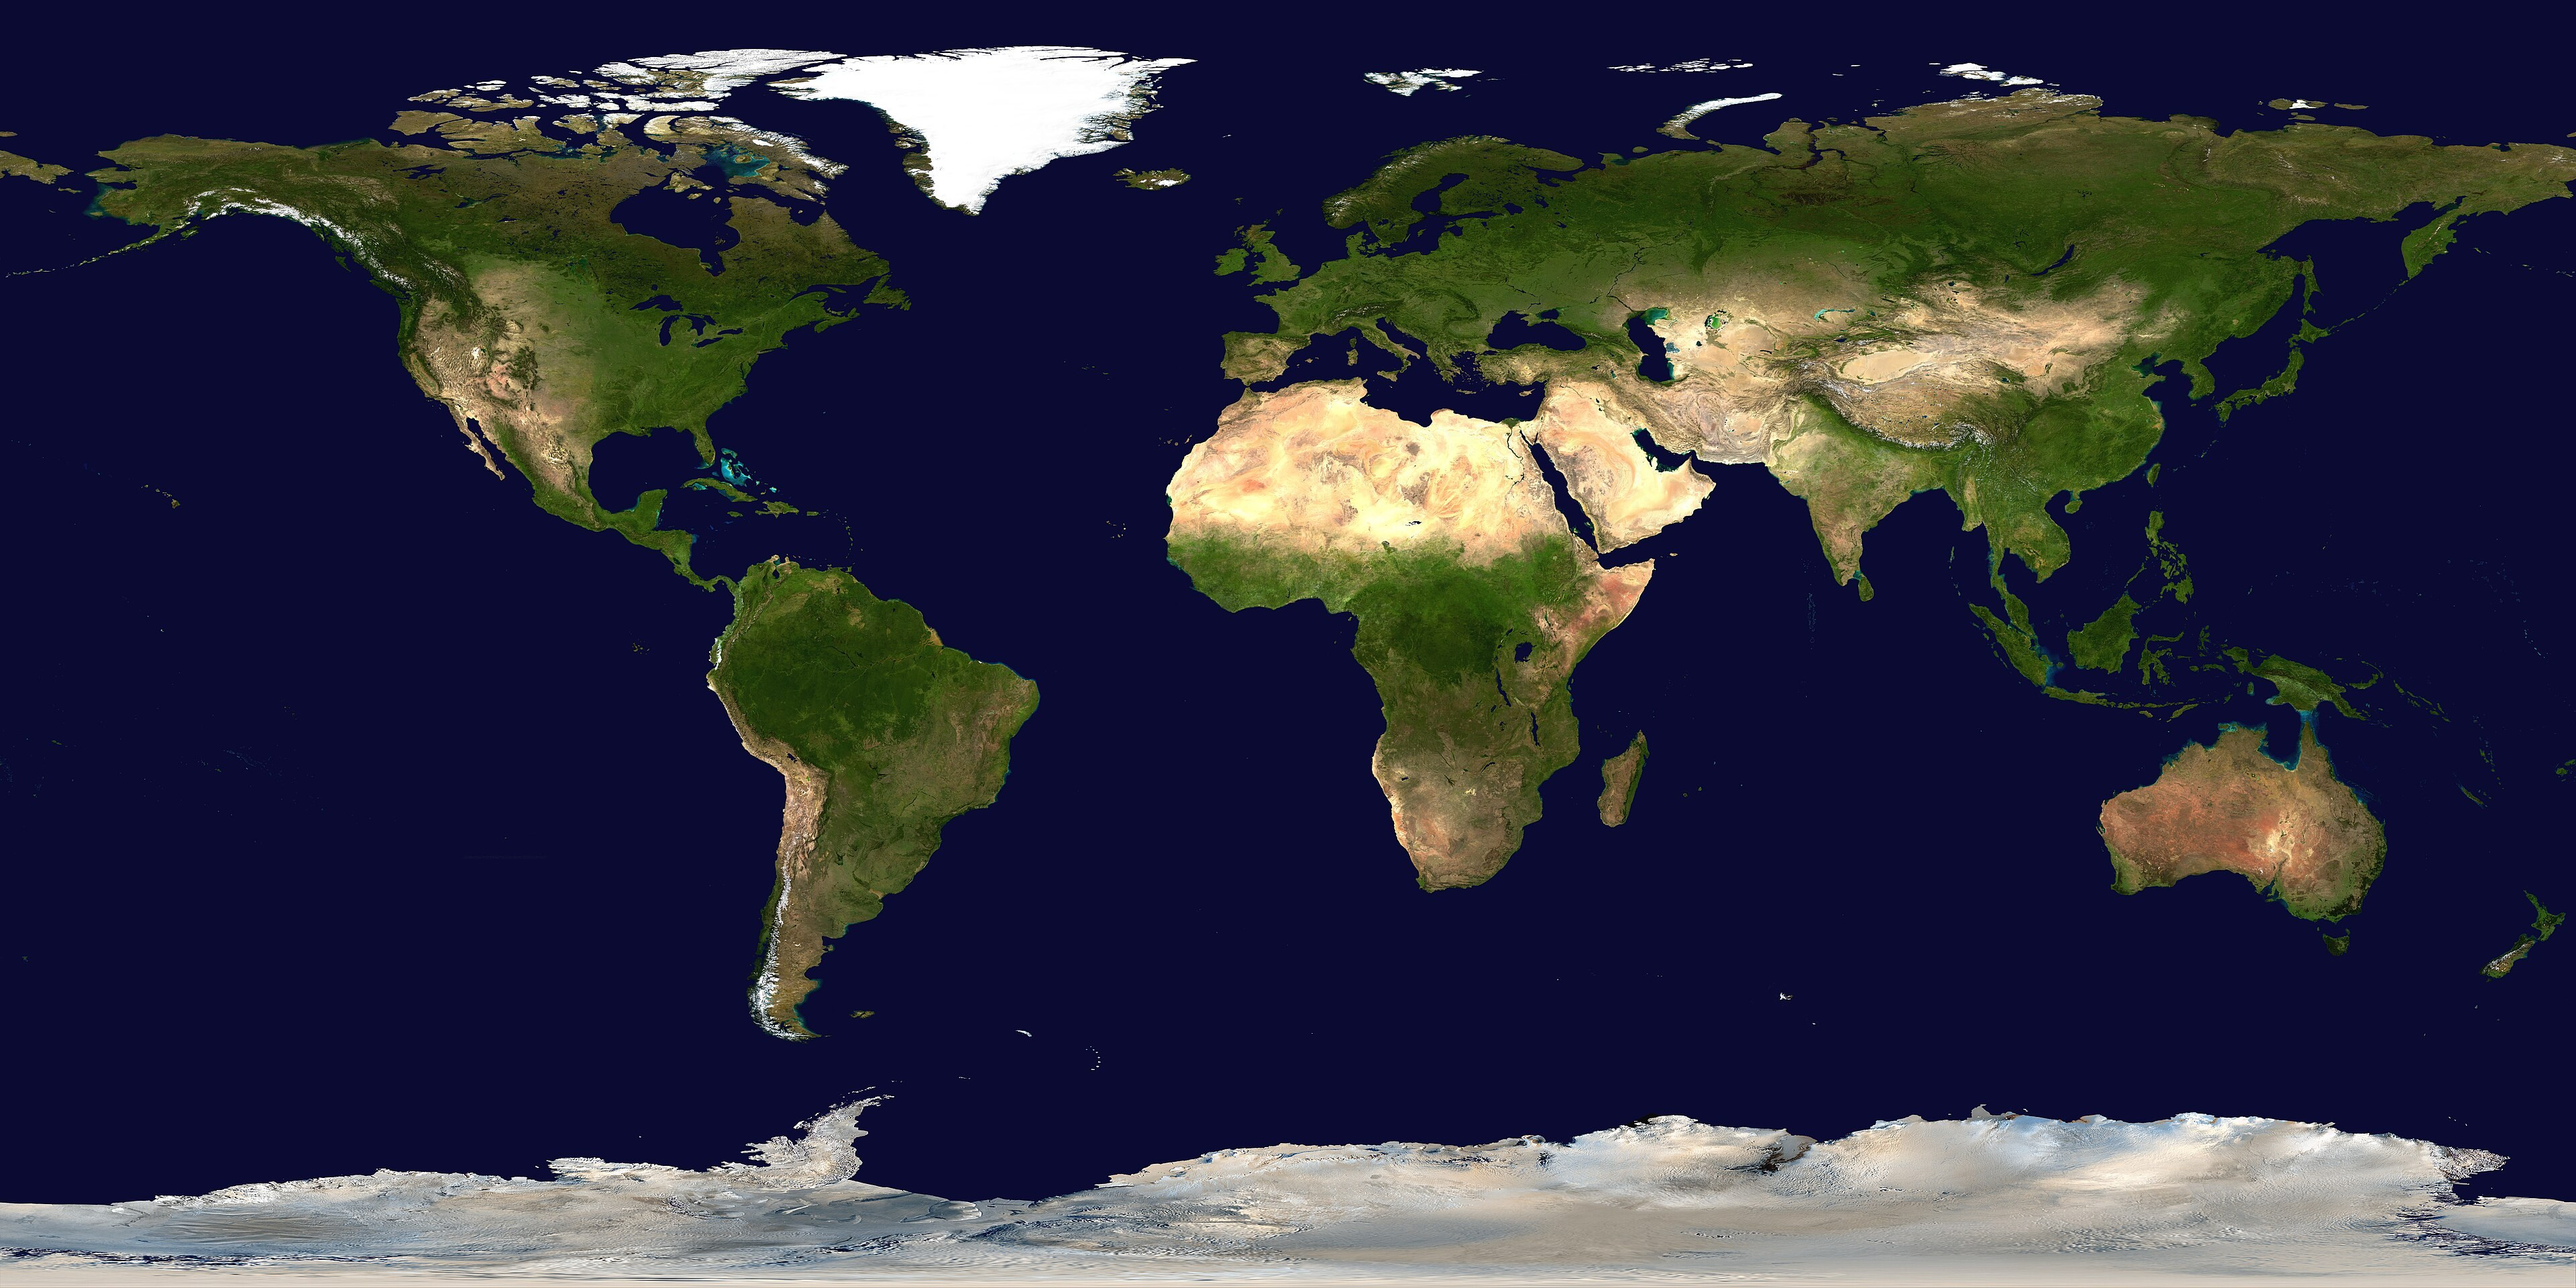
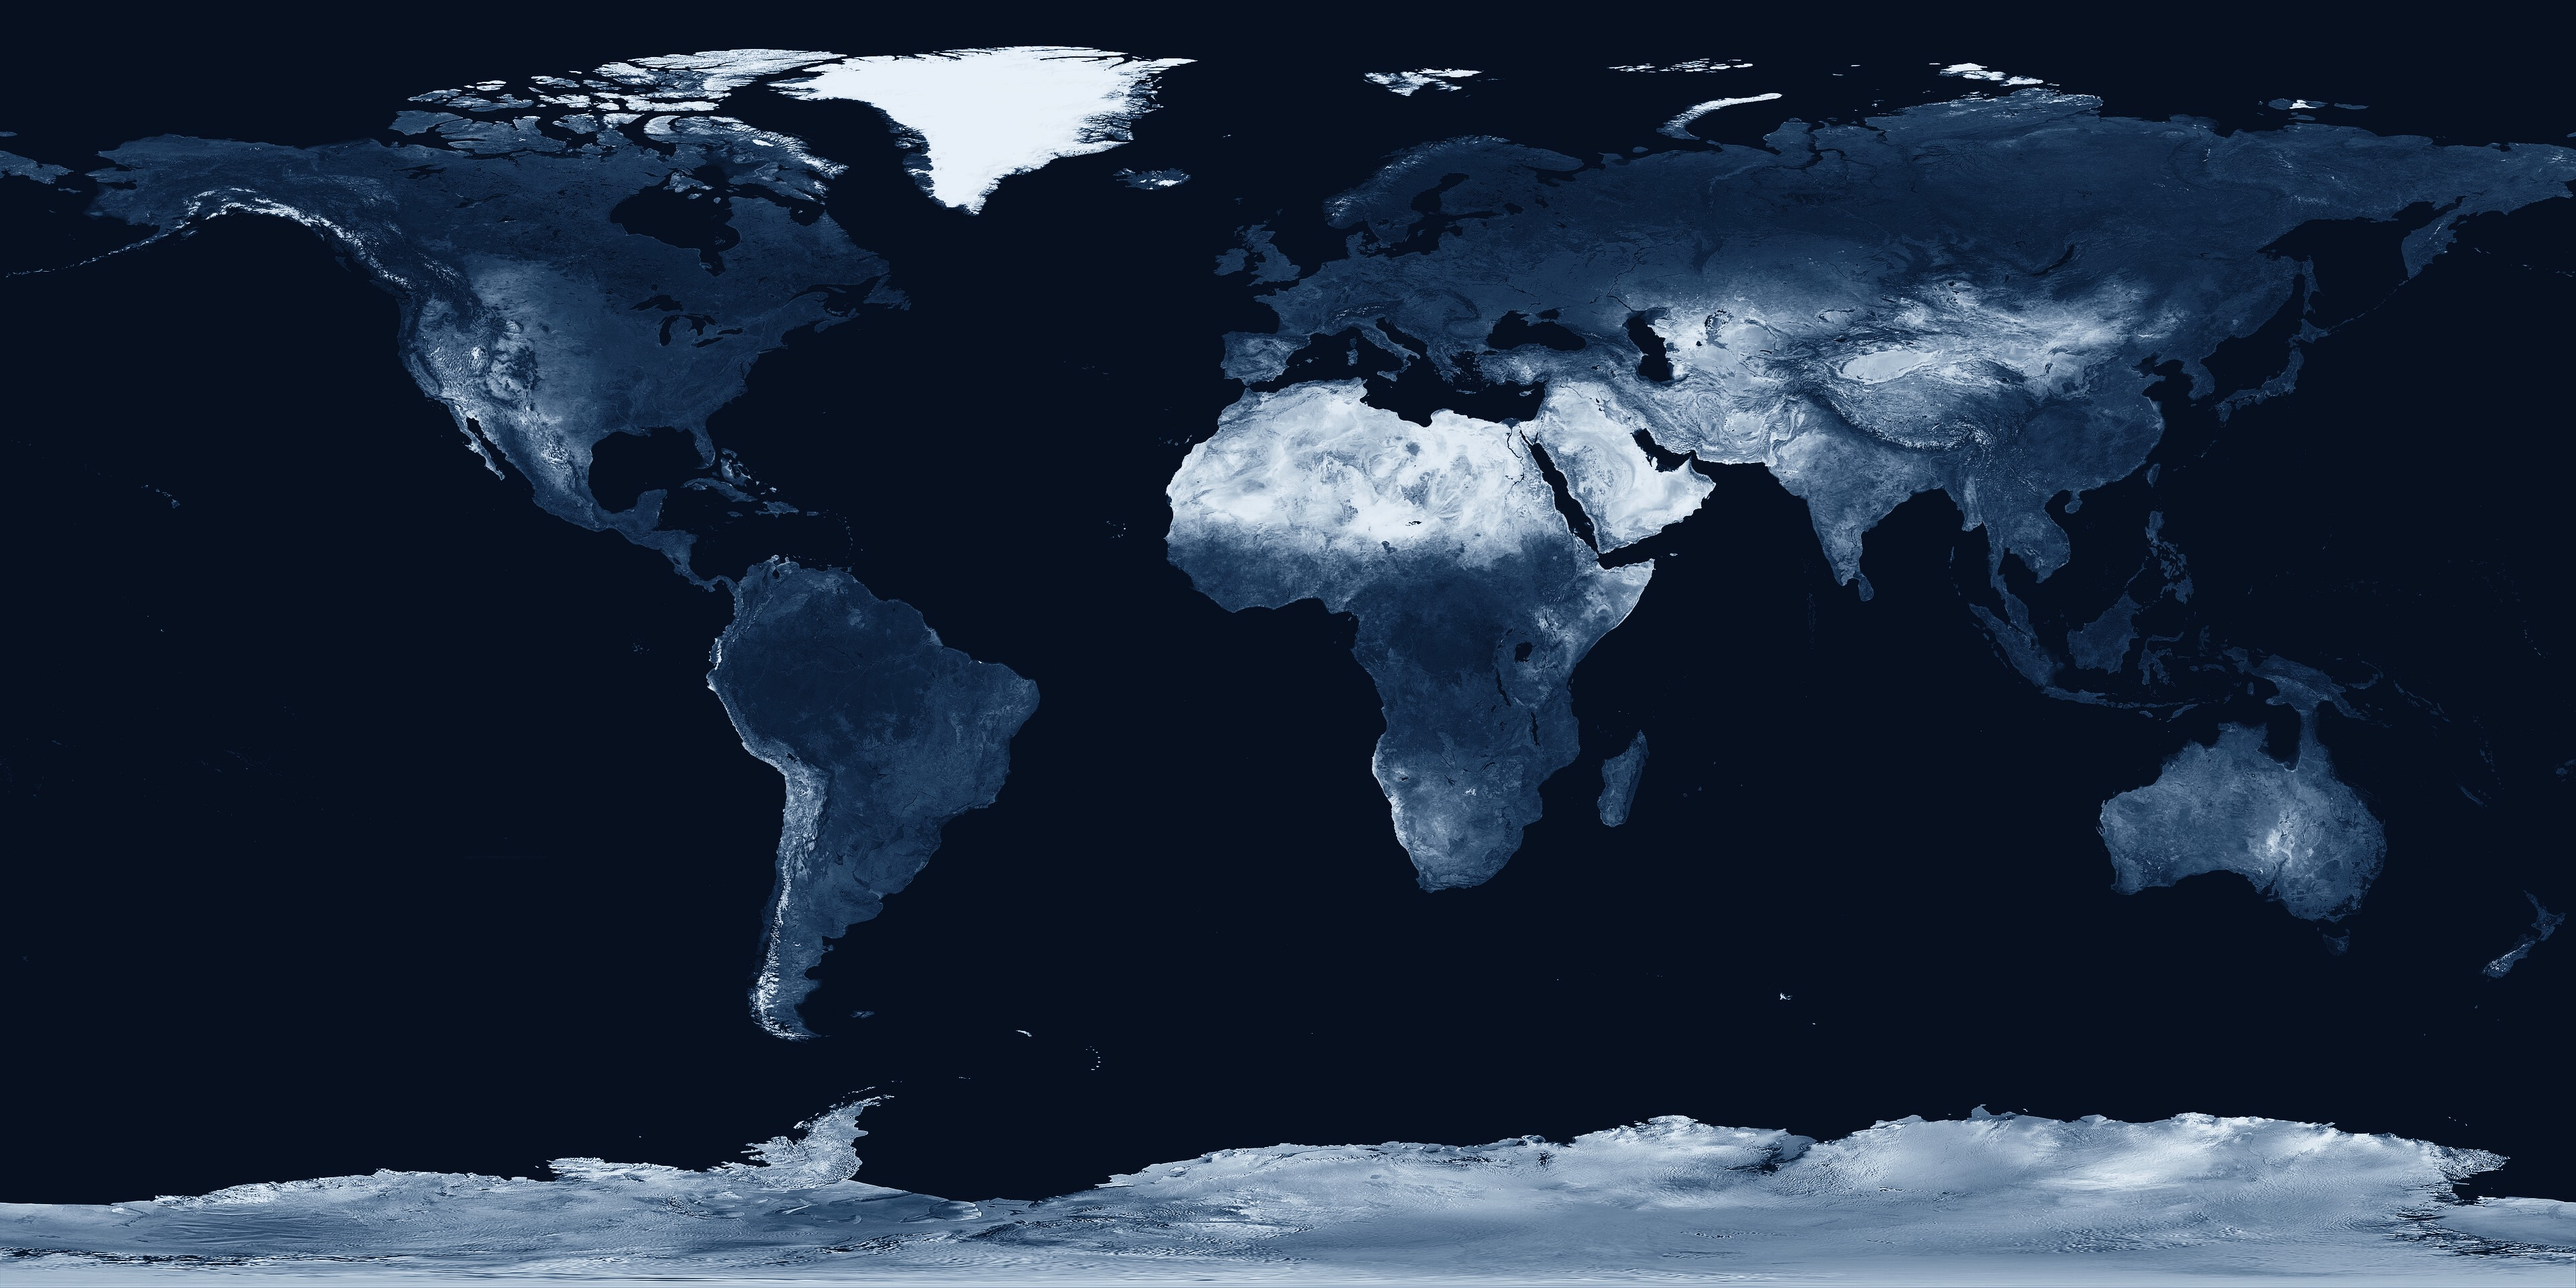
地球陆地改为灰蓝色调（去黄绿）；背景换成真实银河星空底图 + 代码星点

diff --git a/standalone.html b/standalone.html
@@ -67,6 +67,13 @@ button{font-family:inherit;color:inherit;background:none;border:0;cursor:pointer
 /* ---------- 太空背景 ---------- */
 .space{position:absolute;inset:0;z-index:0;overflow:hidden;}
 
+/* 星空底图：真实银河照片，压暗后作为夜空 */
+.sky{
+  position:absolute;inset:0;
+  background:url('./assets/sky-milkyway.jpg') center center / cover no-repeat;
+  opacity:.78;
+}
+
 .starfield{
   position:absolute;inset:0;width:100%;height:100%;display:block;
 }
@@ -77,6 +84,7 @@ button{font-family:inherit;color:inherit;background:none;border:0;cursor:pointer
   filter:blur(60px);
   mix-blend-mode:screen;
   pointer-events:none;
+  opacity:.45;
 }
 .nebula--a{
   left:-14%;top:-22%;width:60%;height:70%;
@@ -813,6 +821,8 @@ button{font-family:inherit;color:inherit;background:none;border:0;cursor:pointer
 
   <!-- ============ 外太空背景 ============ -->
   <div class="space" id="space">
+    <!-- 星空底图（真实银河照片） -->
+    <div class="sky" aria-hidden="true"></div>
     <canvas class="starfield" id="starfield" aria-hidden="true"></canvas>
     <div class="nebula nebula--a" aria-hidden="true"></div>
     <div class="nebula nebula--b" aria-hidden="true"></div>

diff --git a/styles.css b/styles.css
@@ -58,6 +58,13 @@ button{font-family:inherit;color:inherit;background:none;border:0;cursor:pointer
 /* ---------- 太空背景 ---------- */
 .space{position:absolute;inset:0;z-index:0;overflow:hidden;}
 
+/* 星空底图：真实银河照片，压暗后作为夜空 */
+.sky{
+  position:absolute;inset:0;
+  background:url('./assets/sky-milkyway.jpg') center center / cover no-repeat;
+  opacity:.78;
+}
+
 .starfield{
   position:absolute;inset:0;width:100%;height:100%;display:block;
 }
@@ -68,6 +75,7 @@ button{font-family:inherit;color:inherit;background:none;border:0;cursor:pointer
   filter:blur(60px);
   mix-blend-mode:screen;
   pointer-events:none;
+  opacity:.45;
 }
 .nebula--a{
   left:-14%;top:-22%;width:60%;height:70%;

diff --git a/index.html b/index.html
@@ -14,6 +14,8 @@
 
   <!-- ============ 外太空背景 ============ -->
   <div class="space" id="space">
+    <!-- 星空底图（真实银河照片） -->
+    <div class="sky" aria-hidden="true"></div>
     <canvas class="starfield" id="starfield" aria-hidden="true"></canvas>
     <div class="nebula nebula--a" aria-hidden="true"></div>
     <div class="nebula nebula--b" aria-hidden="true"></div>

diff --git a/对接说明.md b/对接说明.md
@@ -15,7 +15,7 @@
 | `assets/` | 本地图片：机器人、水壶、植株；`*-cut.png` 是抠好的透明底版本 |
 | `standalone.html` | 单文件版（样式与脚本内联），仅用于单独分享，部署用不到 |
 
-> 背景是一个缓缓自转的地球（完整球体居中）：`assets/earth-map.jpg` 是 NASA Blue Marble 真实卫星地表贴图（公有领域），`assets/earth-clouds.png` 是真实卫星云层（Solar System Scope，CC BY 4.0，源自 NASA 数据）。两者叠在一个球面上，贴图横向滚动即自转，云层以不同速度飘动；光照、昼夜分界与边缘大气散射都是 CSS 实现的，不依赖任何外部服务。**署名要求：** 这两个素材需要在页面或说明中保留出处（见 README.md）。若后台希望换成实时卫星影像（如 Google/Mapbox 瓦片或自有影像），替换 `.earth__tex` 的背景图即可，或告诉我，我把它改成接口驱动的图层。
+> 背景是「真实银河星空 + 缓缓自转的地球（完整球体居中）」：`assets/sky-milkyway.jpg` 是 ESO 的银河实拍全景（CC BY 4.0）作为夜空底图，页面上还会叠加一层代码生成的闪烁星点；`assets/earth-map.jpg` 是 NASA Blue Marble 卫星地表贴图（公有领域，已重新调色为**灰蓝色调**，陆地不带黄绿），`assets/earth-clouds.png` 是真实卫星云层（Solar System Scope，CC BY 4.0）。地表与云层叠在同一个球面上，贴图横向滚动即自转，云层以不同速度飘动；光照、昼夜分界与边缘大气散射都是 CSS 实现，不依赖外部服务。**署名要求：** 这三个素材需要在页面或说明中保留出处（见 README.md）。若后台希望换成实时卫星影像（如 Google/Mapbox 瓦片或自有影像），替换 `.earth__tex` 的背景图即可，或告诉我，我把它改成接口驱动的图层。
 
 ## 三、现在数据写在哪里
 

diff --git a/README.md b/README.md
@@ -16,6 +16,7 @@ styles.css            全部样式与动画
 app.js                全部交互逻辑
 standalone.html       单文件版（样式 + 脚本内联）
 assets/
+  sky-milkyway.jpg    真实银河星空底图（ESO/S. Brunier，CC BY 4.0）
   earth-map.jpg       地球等距圆柱贴图（NASA Blue Marble，公有领域，经 Wikimedia Commons 获取）
   earth-clouds.png    真实卫星云层贴图（Solar System Scope，CC BY 4.0，源自 NASA 卫星数据）
   podcast-bot.png     机器人（透明底抠图，840 × 1169）
@@ -24,9 +25,13 @@ assets/
   shuihu.png / zhizhu.png   上面两张的原图
 ```
 
-素材来源与授权：地球表面贴图为 NASA Blue Marble（公有领域）；云层贴图来自
-[Solar System Scope](https://www.solarsystemscope.com/textures/)（CC BY 4.0，基于 NASA 卫星数据）。
-如用于商业发布，请在页面或说明中保留这两项署名。
+素材来源与授权：
+
+- 星空底图：ESO/S. Brunier 的银河全景（CC BY 4.0），经 Wikimedia Commons 获取
+- 地球表面：NASA Blue Marble（公有领域），已重新调色为灰蓝色调
+- 云层：[Solar System Scope](https://www.solarsystemscope.com/textures/)（CC BY 4.0，基于 NASA 卫星数据）
+
+如用于商业发布，请保留以上署名。
 
 ## 页面构成
 
